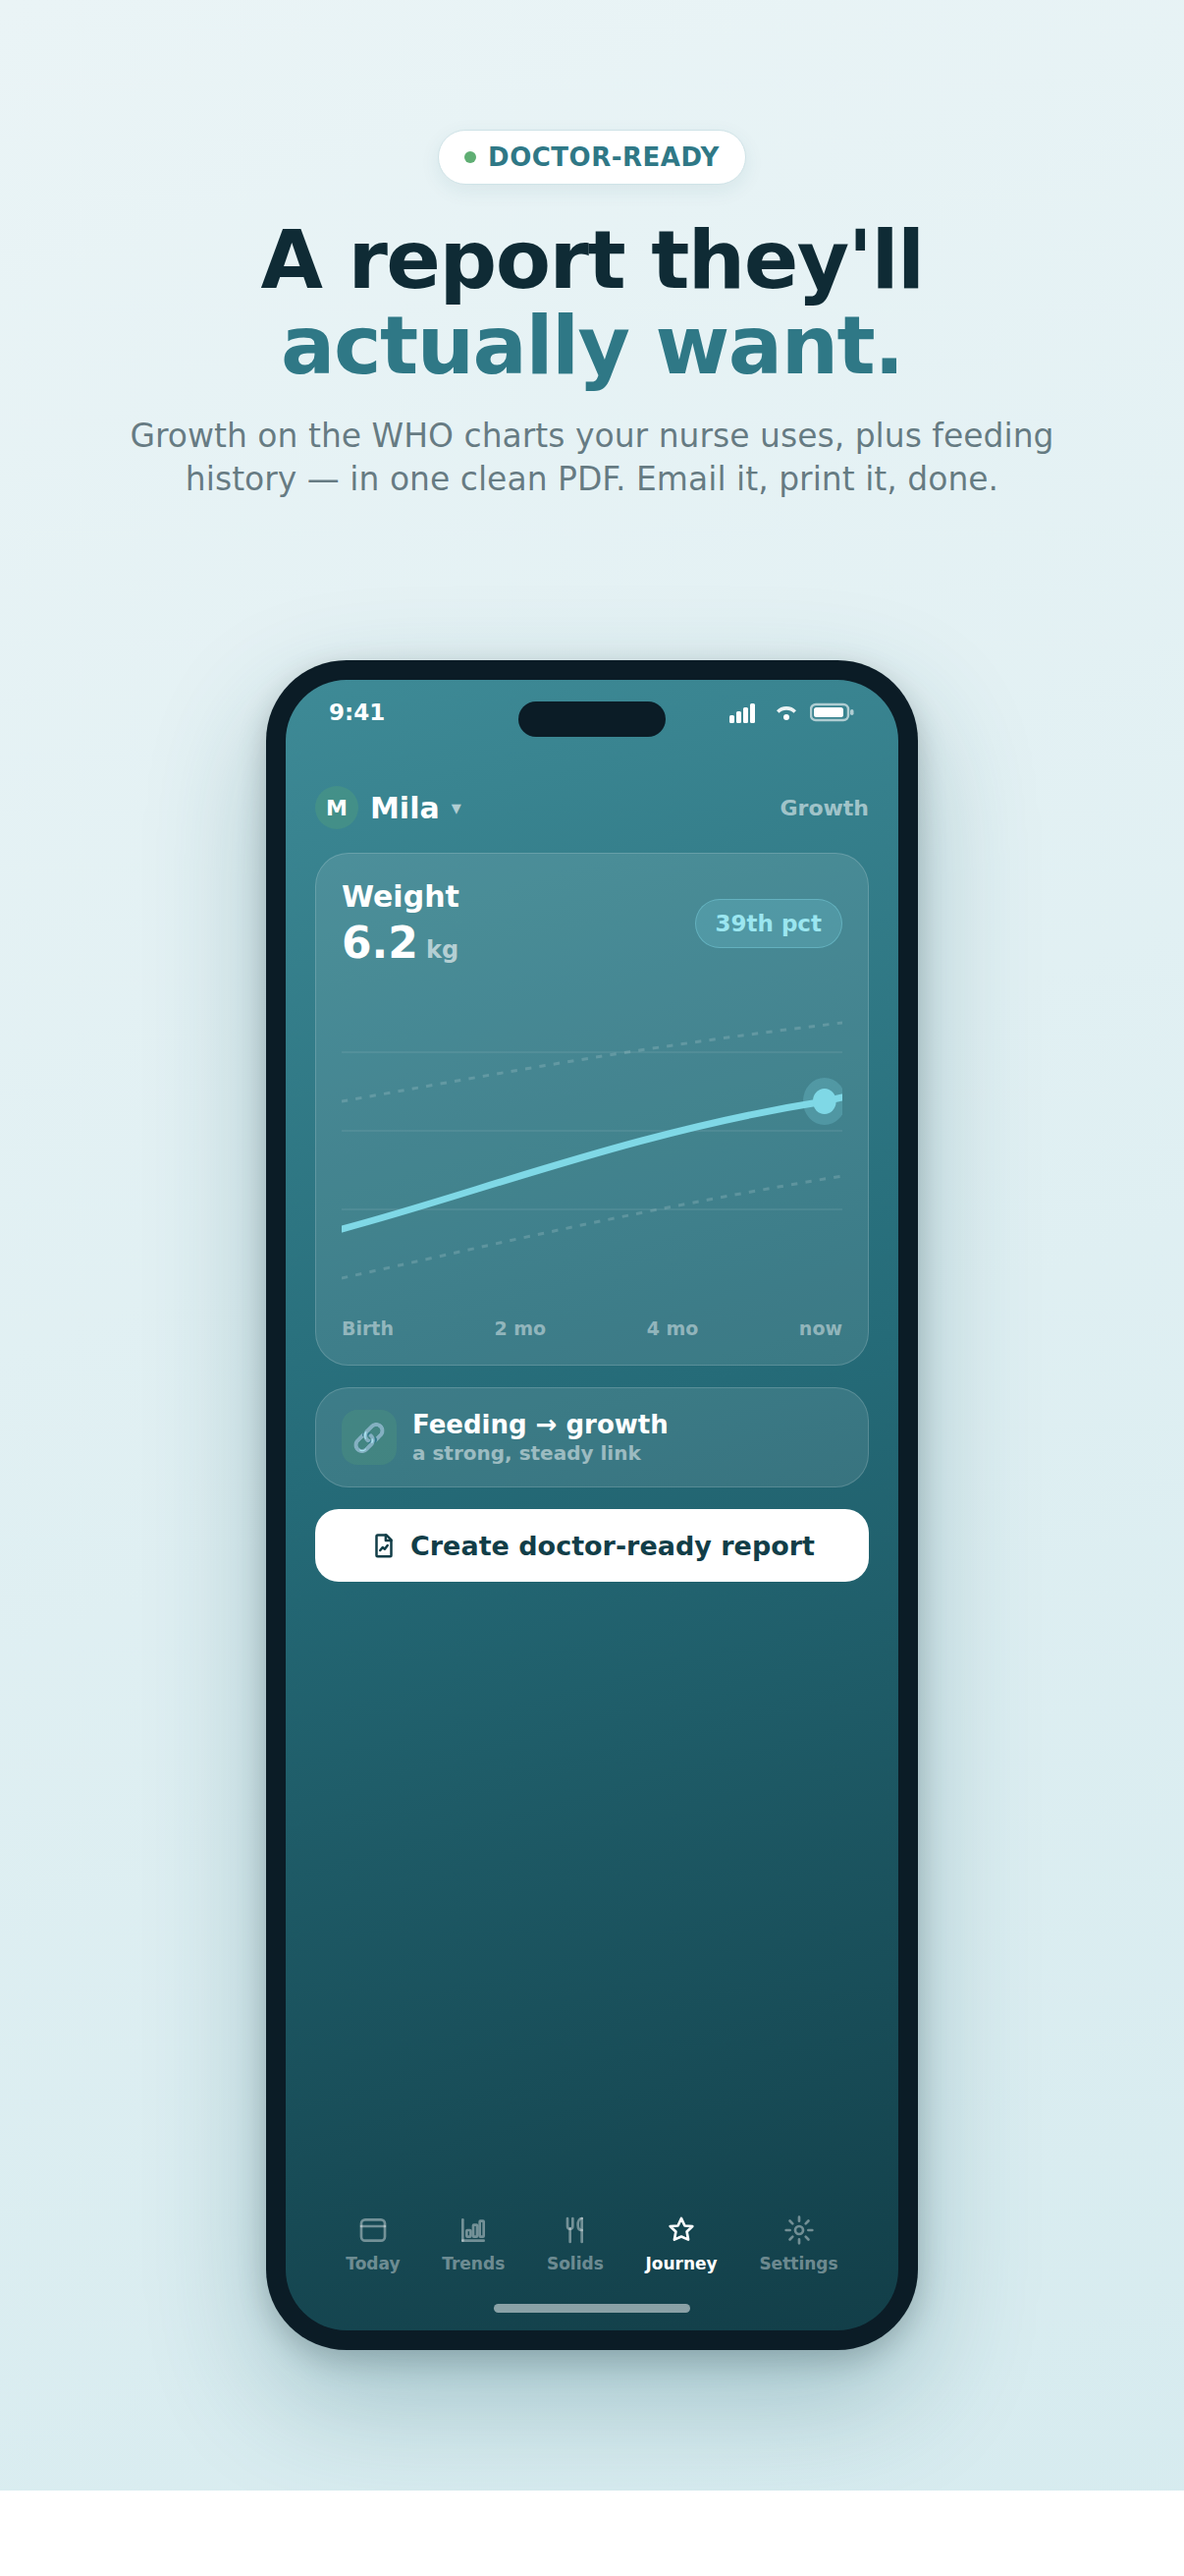
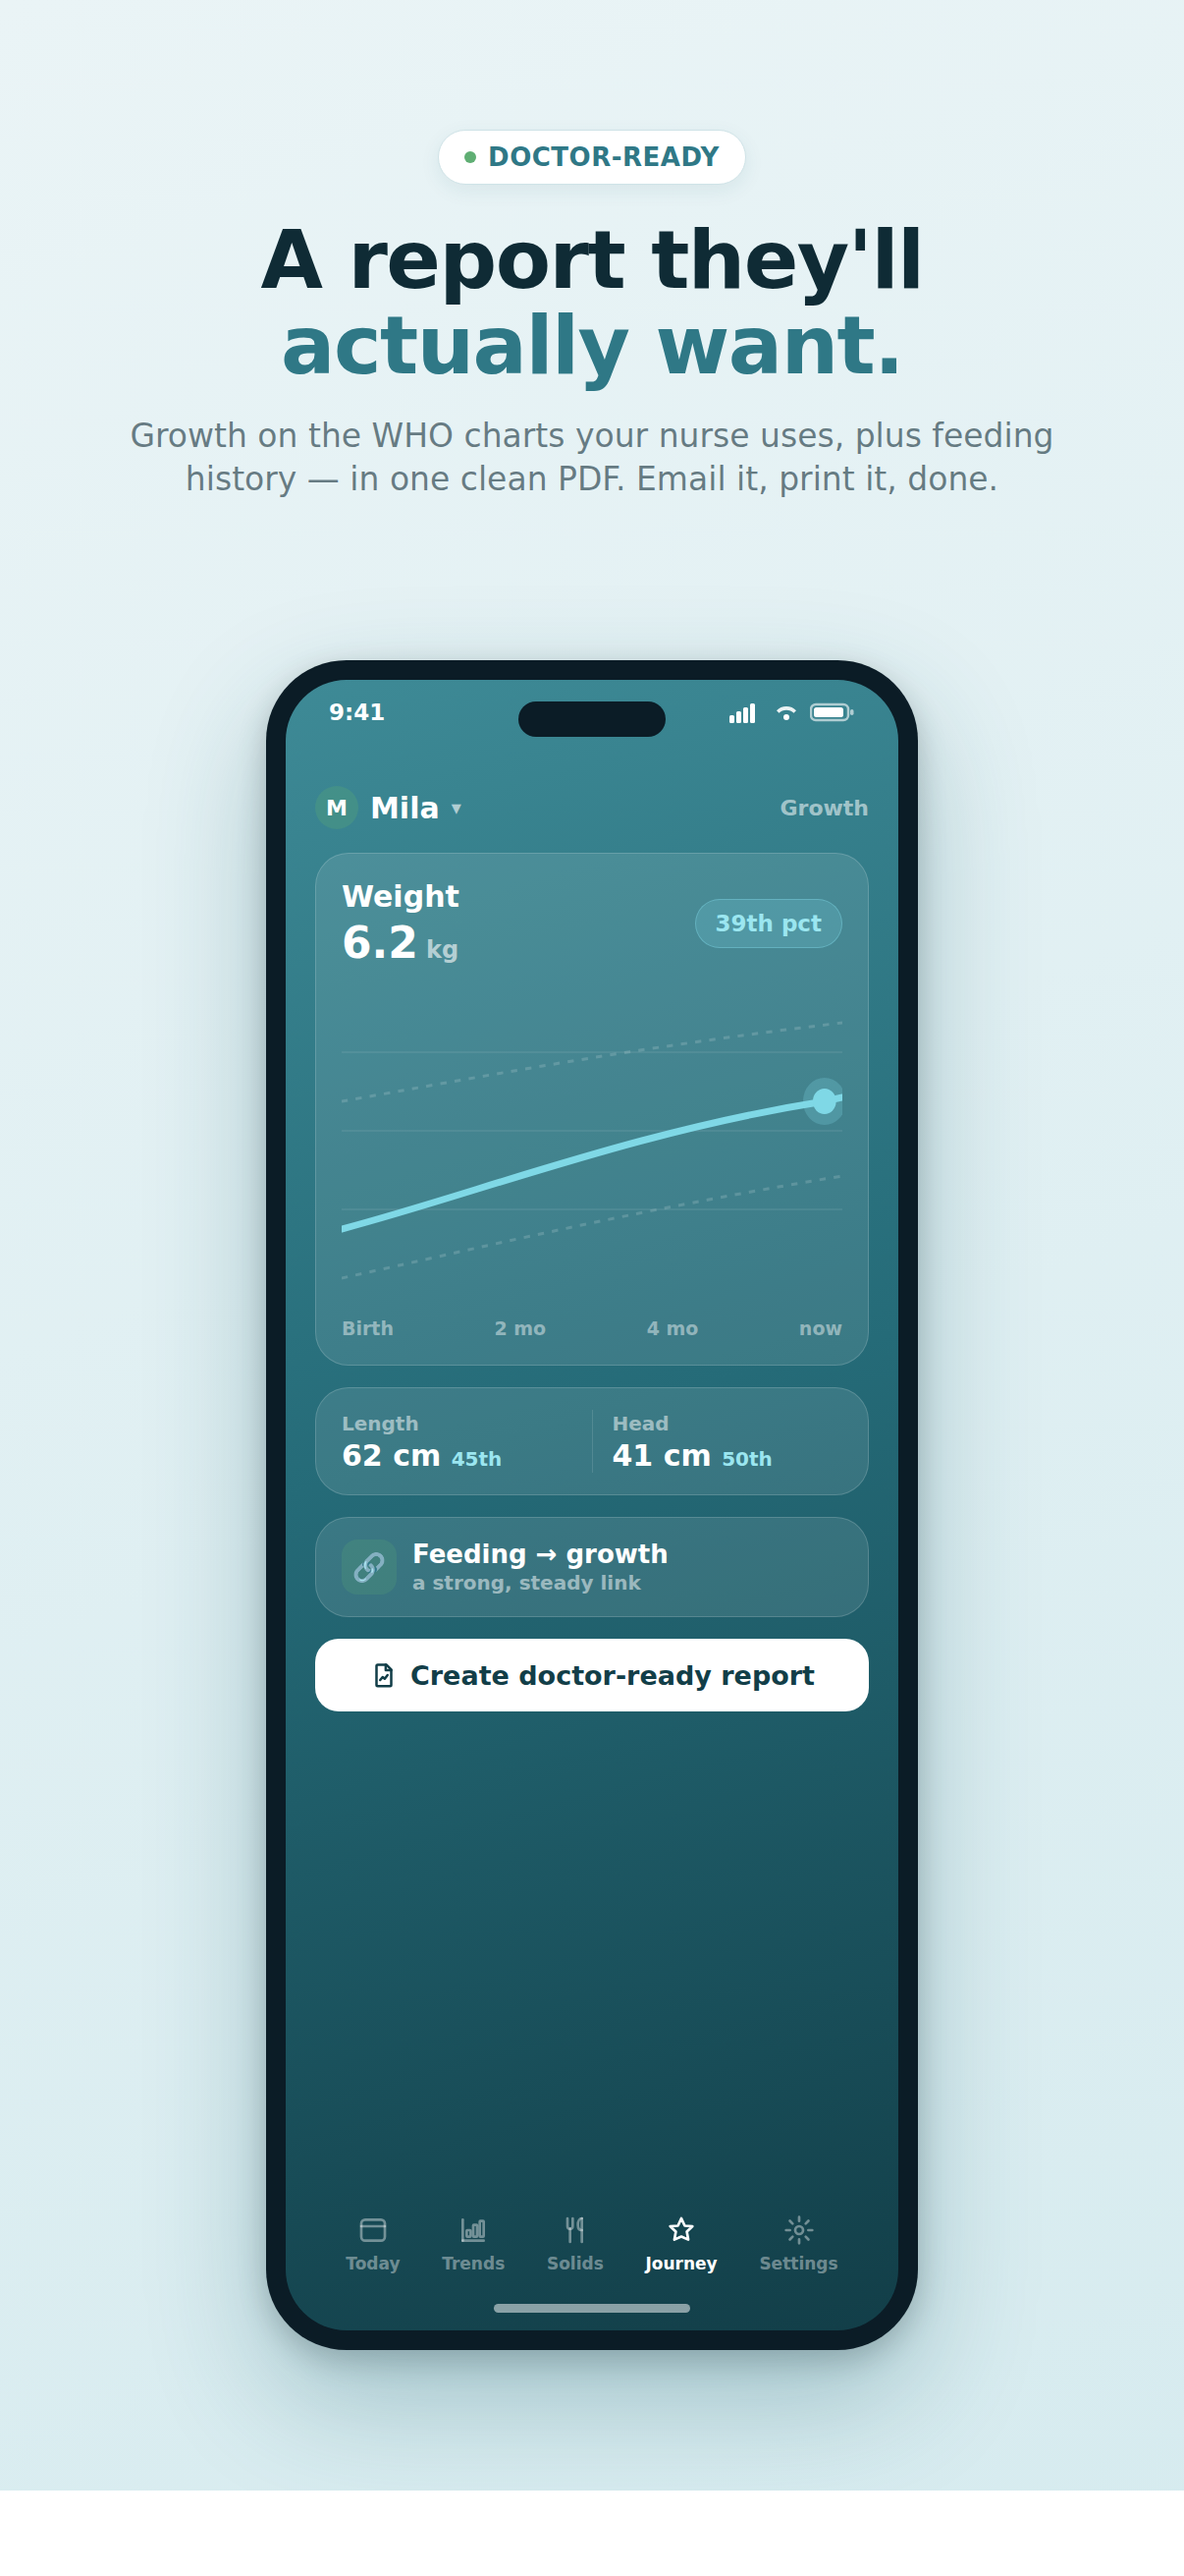
Add "See it in action" screenshot gallery + polish two frames
- New #screens gallery: horizontal-scroll strip of the five feature
  mockups (savings, flowcast, logging, food story, report) after the
  showcase, leading the visual sweep with savings + food story.
- Balance the two thinner frames: FlowCast gains a "getting sharper"
  line; Report gains length/head stats — uniform quality for featuring.
- SCREENSHOTS.md: map each mockup to the real capture that should match
  it, so the App Store follow-through is a straight swap.

Changed region(s): [[0.2454, 0.5252, 0.7363, 0.6796]]

diff --git a/index.html b/index.html
@@ -653,6 +653,33 @@ footer.ft { border-top: 1px solid var(--border-2); padding: 54px 0 60px; }
   </div>
 </section>
 
+<!-- ============ SCREENSHOT GALLERY ============ -->
+<style>
+.gallery{background:linear-gradient(180deg,var(--bg-soft),var(--surface));}
+.gal-strip{display:flex;gap:26px;overflow-x:auto;scroll-snap-type:x mandatory;padding:10px 4px 28px;-webkit-overflow-scrolling:touch;scrollbar-width:thin;}
+.gal-strip img{width:298px;flex:0 0 auto;border-radius:30px;scroll-snap-align:center;
+  box-shadow:0 22px 55px rgba(28,94,107,0.16);border:1px solid var(--border-2);}
+@media(min-width:900px){.gal-strip img{width:342px;}}
+.gal-hint{text-align:center;font-size:14px;font-weight:600;color:var(--ink-3);margin-top:6px;}
+</style>
+<section class="gallery" id="screens">
+  <div class="wrap">
+    <div class="sec-head">
+      <div class="kicker reveal">See it in action</div>
+      <h2 class="reveal d1">The whole app, at a glance.</h2>
+      <p class="reveal d2">From the first bottle to the family table — savings, predictions, calm logging, the food story, and a doctor-ready report.</p>
+    </div>
+    <div class="gal-strip reveal d2">
+      <img src="marketing/mockups/savings.png" alt="Savings screen: money saved this month, bottle efficiency by feed type, and less formula wasted per year" loading="lazy">
+      <img src="marketing/mockups/flowcast.png" alt="FlowCast screen: a countdown ring to the next likely feed and a calm plan for the day ahead" loading="lazy">
+      <img src="marketing/mockups/logging.png" alt="Calm logging screen: milk today, a live feed timeline, and the one-slider one-button logger" loading="lazy">
+      <img src="marketing/mockups/food-story.png" alt="Food story screen: a logged smoothie, the nine major allergens tracked, and tastings the baby loves" loading="lazy">
+      <img src="marketing/mockups/report.png" alt="Growth and report screen: weight on WHO percentile bands with a one-tap doctor-ready report" loading="lazy">
+    </div>
+    <div class="gal-hint reveal">← swipe to explore →</div>
+  </div>
+</section>
+
 <!-- ============ FOOD STORY (solids · allergens · tastings) ============ -->
 <style>
 .foodstory { background: var(--bg-soft); }

diff --git a/marketing/mockups/report.html b/marketing/mockups/report.html
@@ -30,6 +30,11 @@
         </svg>
         <div style="display:flex;justify-content:space-between;color:rgba(255,255,255,0.45);font-size:19px;font-weight:600;margin-top:6px;"><span>Birth</span><span>2 mo</span><span>4 mo</span><span>now</span></div>
       </div>
+      <div class="card" style="display:flex;gap:20px;padding:22px 26px;">
+        <div style="flex:1;"><div class="tl-sub">Length</div><div style="color:#fff;font-size:30px;font-weight:800;margin-top:3px;">62 cm <span style="font-size:20px;color:#9BE6F0;font-weight:700;">45th</span></div></div>
+        <div style="width:1px;background:rgba(255,255,255,0.12);"></div>
+        <div style="flex:1;"><div class="tl-sub">Head</div><div style="color:#fff;font-size:30px;font-weight:800;margin-top:3px;">41 cm <span style="font-size:20px;color:#9BE6F0;font-weight:700;">50th</span></div></div>
+      </div>
       <div class="card" style="display:flex;align-items:center;gap:16px;padding:22px 26px;">
         <div class="tl-ico" style="background:rgba(95,174,115,0.2);">🔗</div>
         <div><div class="tl-name">Feeding → growth</div><div class="tl-sub">a strong, steady link</div></div>

diff --git a/marketing/mockups/forecast.html b/marketing/mockups/forecast.html
@@ -31,6 +31,7 @@
         <div class="tl-row"><div class="tl-ico" style="background:rgba(224,113,154,0.18);">🌆</div><div><div class="tl-name">Early evening</div><div class="tl-sub">steady pattern</div></div><div class="tl-amt">~110<span class="u"> ml</span></div></div>
         <div class="tl-row"><div class="tl-ico" style="background:rgba(90,110,160,0.28);">🌙</div><div><div class="tl-name">Overnight</div><div class="tl-sub">learning</div></div><div class="tl-amt">~90<span class="u"> ml</span></div></div>
       </div>
+      <div class="card" style="display:flex;align-items:center;gap:16px;padding:22px 26px;"><div class="tl-ico" style="background:rgba(127,216,230,0.18);">📈</div><div><div class="tl-name">Getting sharper daily</div><div class="tl-sub">the more you log, the better it predicts</div></div></div>
     </div>
     <div class="tabbar">
       <div class="ti on"><svg viewBox="0 0 24 24" fill="none" stroke="currentColor" stroke-width="2" stroke-linecap="round" stroke-linejoin="round"><rect x="3" y="4" width="18" height="16" rx="3"/><path d="M3 9h18"/></svg>Today</div>

diff --git a/SCREENSHOTS.md b/SCREENSHOTS.md
@@ -34,6 +34,23 @@
 > tastings), not a screenshot — so it looks complete today without any capture. `solids.jpg` /
 > `allergens.jpg` are only needed if you later want to convert it (or add) a device-frame beat.
 
+## Design targets → real captures (match these)
+
+The polished frames in `marketing/mockups/` are the **visual target** for the gallery section
+(`index.html#screens`) and the App Store. They're representative mockups; the App Store should also
+carry **real captures matched to each**. Map:
+
+| Mockup (target) | Real capture to take | The one detail to match |
+|---|---|---|
+| `mockups/savings.png` | Savings/efficiency screen | money-saved hero + efficiency bars |
+| `mockups/flowcast.png` | Today → Looking ahead | next-feed ring + day-ahead rows |
+| `mockups/logging.png` | Home / Today | milk-today + live timeline + slider & button |
+| `mockups/food-story.png` | Solids journal | smoothie meal + "X of 9" allergens + tastings |
+| `mockups/report.png` | Growth + report | weight on WHO bands + Create Report |
+
+When the real captures exist, swap the `<img src="marketing/mockups/…">` in the gallery for the real
+files (or keep mockups as the polished App-Store set and use real ones in the device-frame beats).
+
 ## Not to capture / don't market (per POSITIONING decisions)
 - **Family sharing** — postponed; site says "coming soon". No sharing screenshot.
 - **Milestone photos** — not shipped; no photo screenshots.
